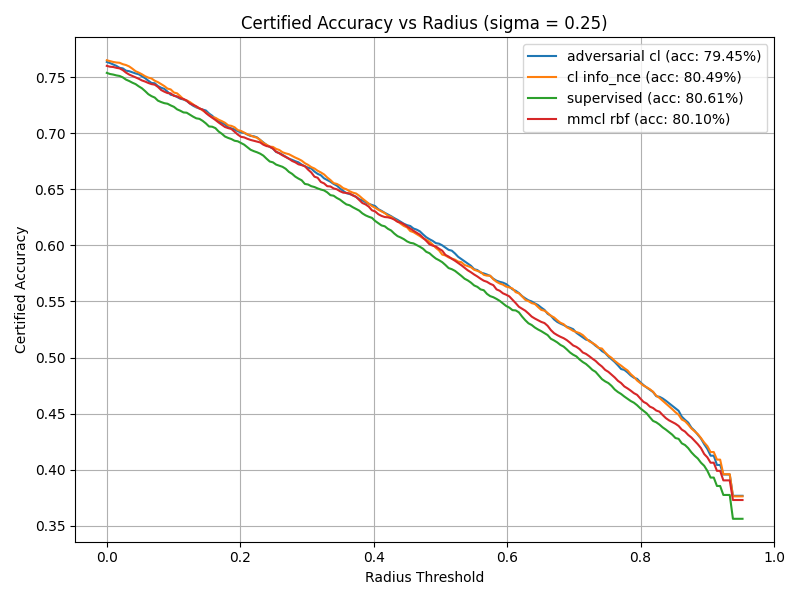
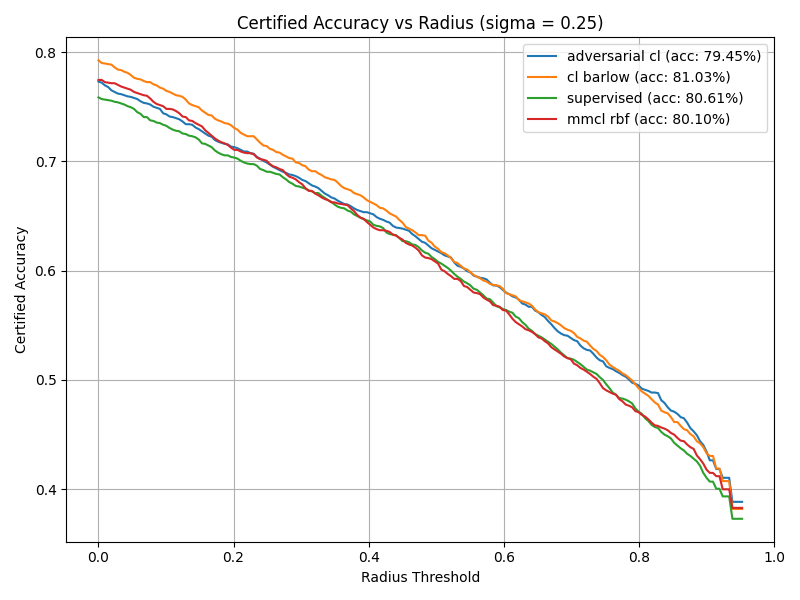
Small updates

diff --git a/svm_margin/compare_svm_margin.py b/svm_margin/compare_svm_margin.py
@@ -4,83 +4,60 @@ import json
 import os
 import random
 from collections import defaultdict
+from types import SimpleNamespace
 
-import matplotlib.pyplot as plt
 import numpy as np
 import torch
-from torch.nn import ReLU, Sequential
-from torch.nn.modules.conv import Conv2d
-from torch.nn.modules.linear import Linear
-from torch.nn.modules.padding import ZeroPad2d
-from torch.utils.data import Subset
 from tqdm import tqdm
 
 import mmcl.utils as utils
 import rocl.data_loader as data_loader
-from beta_crown.modules import Flatten
-from mmcl.utils import Flatten as MMCLFlatten
+from resnet.resnet_unsupervised_encoder import ResnetEncoder
 from svm_margin import compute_margin
 
 # arg parser and device
 parser = argparse.ArgumentParser(description="Margin comparisson")
 
-parser.add_argument(
-    "--mmcl_model",
-    type=str,
-    default="",
-    help="model name (cifar_model, cifar_model_deep, cifar_model_wide, cnn_4layer, cnn_4layer_b, mnist_cnn_4layer)",
-)
-parser.add_argument(
-    "--mmcl_checkpoint", type=str, default="", help="Model checkpoint for mmcl"
-)
-parser.add_argument(
-    "--rvcl_model",
-    type=str,
-    default="",
-    help="model name (cifar_model, cifar_model_deep, cifar_model_wide, cnn_4layer, cnn_4layer_b, mnist_cnn_4layer)",
-)
-parser.add_argument(
-    "--rvcl_checkpoint", type=str, default="", help="Model checkpoint for rvcl"
-)
-parser.add_argument(
-    "--regular_cl_model", type=str, default=""
-)
-parser.add_argument(
-    "--regular_cl_checkpoint", type=str, default=""
-)
 parser.add_argument("--train_type", default="test", type=str, help="Must be test")
 parser.add_argument("--batch_size", default=256, type=int, help="Batch size")
 parser.add_argument("--dataset", default="cifar-10", type=str, help="cifar-10/mnist")
-parser.add_argument("--C", type=float, default=1.0, help="C value for SVM algorithm")
-parser.add_argument("--kernel_type", default="rbf", type=str, help="Kernel Type")
-parser.add_argument(
-    "--deegre", default=3.0, type=float, help="Degree for polynomial kernel"
-)
-parser.add_argument("--seed", default=1, type=int, help="random seed")
 parser.add_argument(
     "--color_jitter_strength",
     default=0.0,
     type=float,
     help="0.5 for CIFAR, 1.0 for ImageNet",
 )
-parser.add_argument(
-    "--class_sample_limit",
-    default=200,
-    type=int,
-    help="NUmber of random samples per class",
-)
+parser.add_argument("--C", type=float, default=1.0, help="C value for SVM algorithm")
+parser.add_argument("--kernel_type", default="rbf", type=str, help="Kernel Type")
+parser.add_argument("--seed", default=1, type=int, help="random seed")
 parser.add_argument("--kernel_gamma", type=str, default="auto")
 parser.add_argument("--normalize", action="store_true")
 parser.add_argument("--positives_per_class", type=int, default=10)
-parser.add_argument("--num_negatives", type=int, default=100)
+parser.add_argument("--negatives_per_class", type=int, default=100)
 parser.add_argument("--num_retries", default=5, type=int, help="Number of retries for negative sampling")
 
 args = parser.parse_args()
-
-if args.kernel_gamma not in {'scale', 'auto'}:
-    args.kernel_gamma = float(args.kernel_gamma)
-
 device = torch.device("cuda" if torch.cuda.is_available() else "cpu")
+
+models = [
+    {
+        "encoder_ckpt": "models/regular_cl/finetune_regular_cl_info_nce_bs_512_lr_0.001.pkl",
+        "model": "cl info_nce"
+    },
+    {
+        "encoder_ckpt": "models/regular_cl/finetune_adv_regular_cl_info_nce_bs_512_lr_0.001.pkl",
+        "model": "adversarial cl"
+    },
+    {
+        "encoder_ckpt": "models/mmcl/rbf/finetune_mmcl_cnn_4layer_b_C_1.0_bs_512_lr_0.0001.pkl",
+        "model": "resnet mmcl"
+    }
+]
+for model in models:
+    # load encoder
+    params_dict = {"resnet_encoder_ckpt": model["encoder_ckpt"], "finetune": True}
+    hparams = SimpleNamespace(**params_dict)
+    model["encoder"] = torch.load(model["encoder_ckpt"], device)
 
 # load test dataset
 _, _, _, _, testloader, testdst = data_loader.get_train_val_test_dataset(args)
@@ -101,14 +78,6 @@ for class_name, values in per_class_sampler.items():
     positives[class_name] = random.sample(per_class_sampler[class_name], args.positives_per_class)
 
 
-# load both models
-mmcl_model = torch.load(args.mmcl_checkpoint, device)
-rvcl_model = torch.load(args.rvcl_checkpoint, device)
-regular_cl_model = torch.load(args.regular_cl_checkpoint, device)
-print(f"Loaded MMCL model: {mmcl_model}")
-print(f"Loaded RVCL model: {rvcl_model}")
-print(f"Loaded regular cl model: {regular_cl_model}")
-
 def encode_inputs_and_compute_margin(model, positive, negatives):
     model = model.to(device)
     positive = positive.to(device)
@@ -120,22 +89,25 @@ def encode_inputs_and_compute_margin(model, positive, negatives):
 # compute margin for each class
 for class_index, class_name in enumerate(class_names):
     print(f"Processing items for class: {class_name} already processed: {class_index}/{len(class_names)} classes")
-    for image_index_in_class, item in enumerate(positives[class_name]):
+    for image_index_in_class, item in enumerate(tqdm(positives[class_name])):
         image_index = class_index * args.positives_per_class + image_index_in_class
         # Select one random image as positive and other images as negatives
         positive = item
         for retry in range(args.num_retries):
-            print(f"Processing image: {image_index}, retry: {retry+1}")
-            indices = random.sample(range(len(testdst)), args.num_negatives)
-            negatives = [testdst[i][0] for i in indices]
-            mmcl_margin = encode_inputs_and_compute_margin(model=mmcl_model, positive=positive, negatives=negatives)
-            rvcl_margin = encode_inputs_and_compute_margin(model=rvcl_model, positive=positive, negatives=negatives)
-            regular_cl_margin = encode_inputs_and_compute_margin(model=regular_cl_model, positive=positive, negatives=negatives)
-            margins[f"{image_index}|{retry}"].append({
-                "mmcl": mmcl_margin,
-                "rvcl": rvcl_margin,
-                "regular_cl": regular_cl_margin
-            })
+            result_dct = {}
+            for model in models:
+                print(f"Processing image: {image_index}, retry: {retry+1}, model: {model['model']}")
+                negatives = [
+                    image
+                    for k, v in per_class_sampler.items()
+                    for image in random.sample(v, args.negatives_per_class)
+                    if k != class_name
+                ]
+                margin = encode_inputs_and_compute_margin(model=model["encoder"], positive=positive, negatives=negatives)
+                result_dct[model["model"]] = margin
+            # Store the results in the margins dictionary
+            print(json.dumps(result_dct, indent=4))
+            margins[f"{image_index}|{retry}"].append(result_dct)
 
 per_image_values = defaultdict(list)
 for image_index_retry, values in margins.items():
@@ -145,35 +117,27 @@ print(f"Obtained following per_image_values dict")
 # get mean and std per class
 per_model_mean_std = {}
 for image_index, values in per_image_values.items():
-    mmcl_values = [x["mmcl"] for x in values]
-    rvcl_values = [x["rvcl"] for x in values]
-    regular_cl_values = [x["regular_cl"] for x in values]
-    per_model_mean_std[image_index] = {
-        "mmcl": (
-            np.mean(mmcl_values),
-            np.std(mmcl_values)
-        ),
-        "rvcl": (
-            np.mean(rvcl_values),
-            np.std(rvcl_values)
-        ),
-        "regular_cl": (
-            np.mean(regular_cl_values),
-            np.std(regular_cl_values)
-        )
-    }
-    print(f"MMCL values: {mmcl_values}\nmean: {np.mean(mmcl_values)}\nstd: {np.std(mmcl_values)}")
-    print(f"RVCL values: {rvcl_values}\nmean: {np.mean(rvcl_values)}\nstd: {np.std(rvcl_values)}")
-    print(f"Regular cl values: {regular_cl_values}\nmean: {np.mean(regular_cl_values)}\nstd: {np.std(regular_cl_values)}")
+    for model in models:
+        model_values = [v[model["model"]] for v in values]
+        mean = np.mean(model_values)
+        std = np.std(model_values)
+        if image_index not in per_model_mean_std:
+            per_model_mean_std[image_index] = {}
+        per_model_mean_std[image_index][model["model"]] = (mean, std)
+per_model_mean_std ["metadata"] = {
+    "positives_per_class": args.positives_per_class,
+    "negatives_per_class": args.negatives_per_class,
+    "num_retries": args.num_retries,
+    "kernel_type": args.kernel_type,
+    "kernel_gamma": args.kernel_gamma if "kernel_gamma" in vars(args) else None,
+    "C": args.C
+}
 print(f"Obtained following mean and std per class dict:\n{per_model_mean_std}")
 # Ensure the directory exists
 save_dir = "margin_results"
 os.makedirs(save_dir, exist_ok=True)
-file_name = f"mmcl_{args.mmcl_model}_rvcl_{args.rvcl_model}_regular_cl_{args.regular_cl_model}_kernel_type_{args.kernel_type}_C_{args.C}"
-if args.kernel_type == 'rbf':
-    file_name += f"_gamma_{args.kernel_gamma}"
-elif args.kernel_type == 'poly':
-    file_name += f"_deegre_{args.deegre}"
+file_name = "-".join([x["model"].replace(" ", "_") for x in models])
+file_name = f"{file_name}_{args.kernel_type}"
 # Construct file path
 file_path = os.path.join(save_dir, f"{file_name}.json")
 # Save dictionary as JSON

diff --git a/plot_from_json/randomized_smoothing/randomized_smoothing_compute.py b/plot_from_json/randomized_smoothing/randomized_smoothing_compute.py
@@ -5,7 +5,7 @@ from collections import defaultdict
 import matplotlib.pyplot as plt
 import numpy as np
 
-file_name = "adversarial_cl-cl_info_nce-supervised-mmcl_rbf"
+file_name = "adversarial_cl-cl_barlow-supervised-mmcl_rbf"
 with open(f"rs_results/{file_name}.json", "r") as f:
     data = json.load(f)
 
